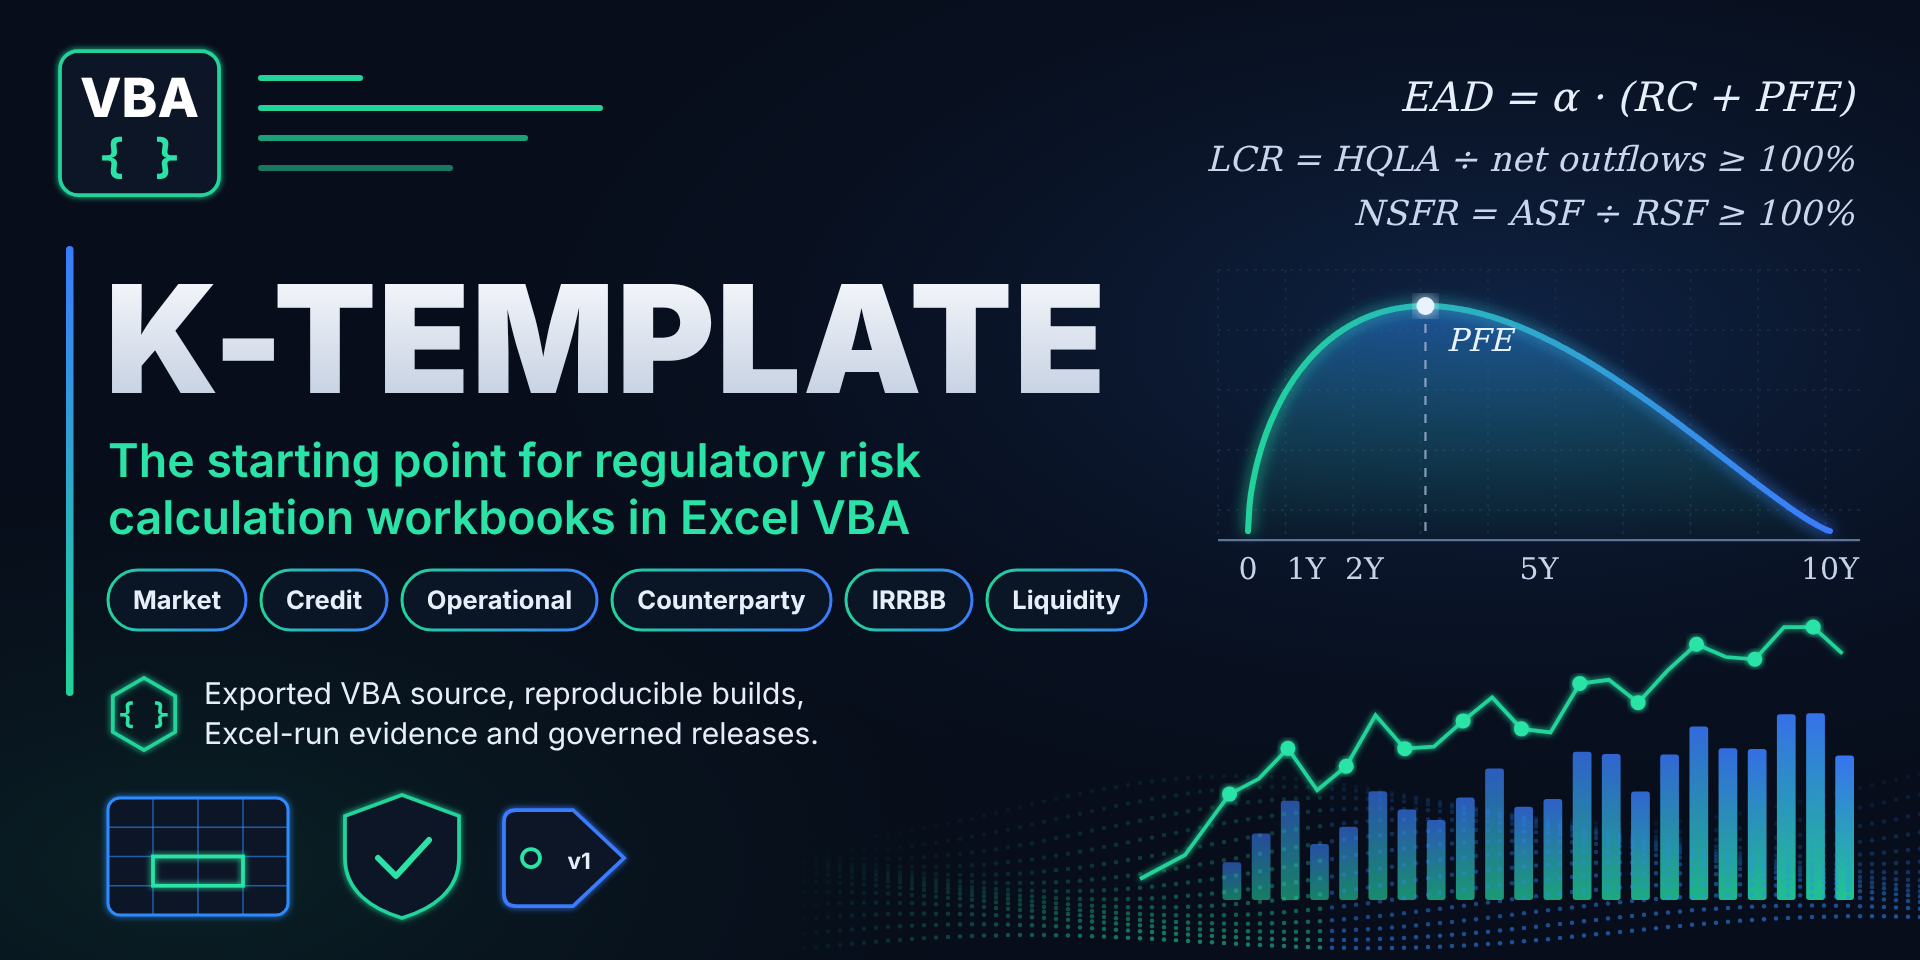
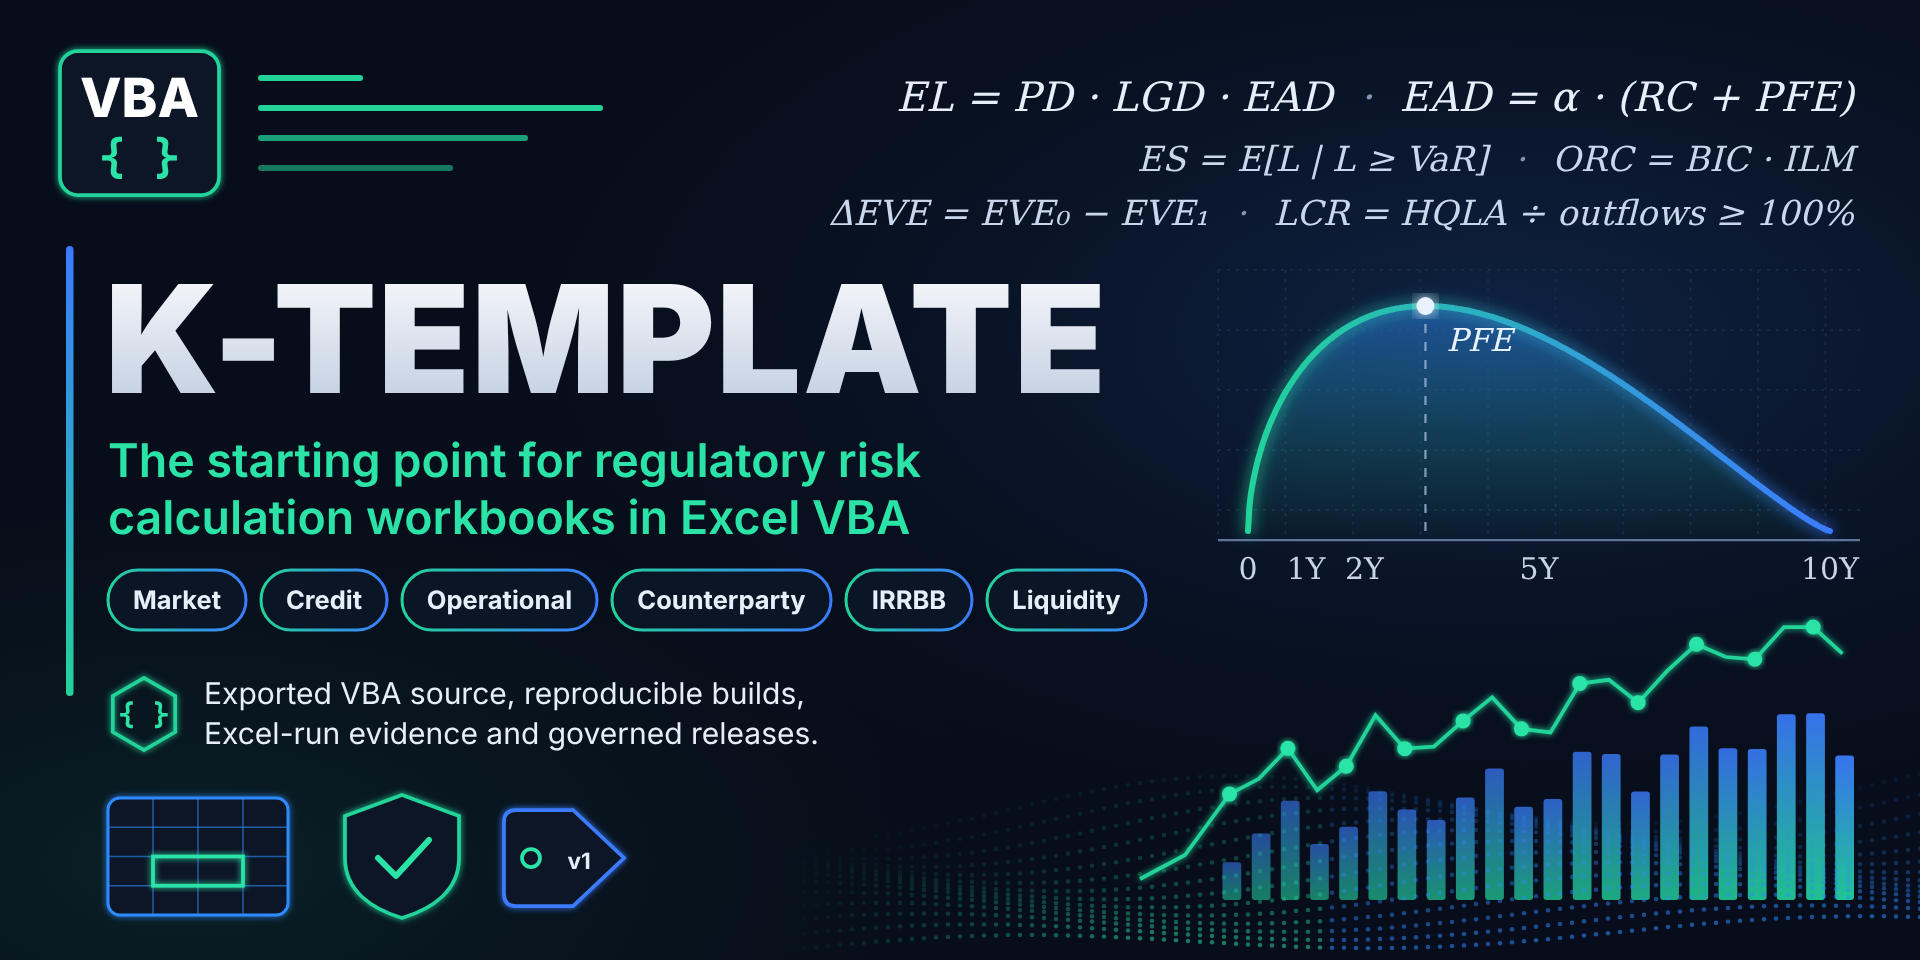
docs: show one formula per risk area in the social preview
The three formulas at the top right covered counterparty credit and
liquidity only. They become six, two per line, one for each risk area the
pills name: expected loss, exposure at default, expected shortfall, the
operational risk capital, the change in economic value of equity, and the
liquidity coverage ratio. The PNG's SHA-256 in the binary allowlist follows.

Refs #492
Claude-Session: https://claude.ai/code/session_01LdwnqXgP7e6XhKnTJHpRCV

Changed region(s): [[0.4375, 0.1562, 0.9688, 0.25], [0.4688, 0.0625, 0.6875, 0.125]]

diff --git a/CHANGELOG.md b/CHANGELOG.md
@@ -101,7 +101,7 @@ Use only the categories an entry needs.
   `sh`-only commands with a temporary directory and a shell variable (#484).
 - The social preview and README banner name the risk areas the template
   is for, market, credit, operational, counterparty, IRRBB and liquidity,
-  instead of a list of regimes (#492).
+  instead of a list of regimes, and show one formula for each (#492).
 
 ### Fixed
 
